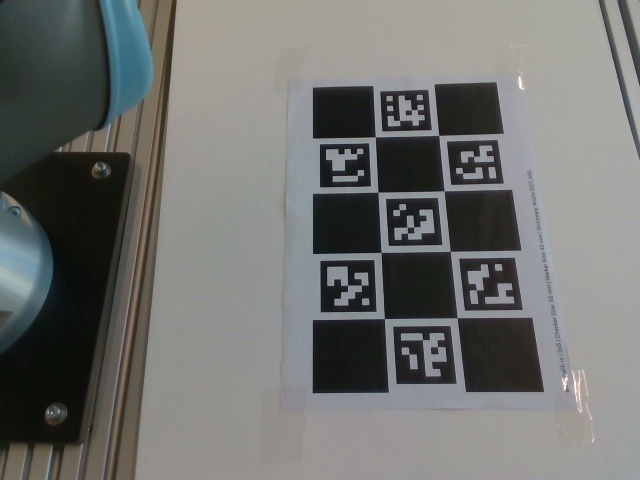
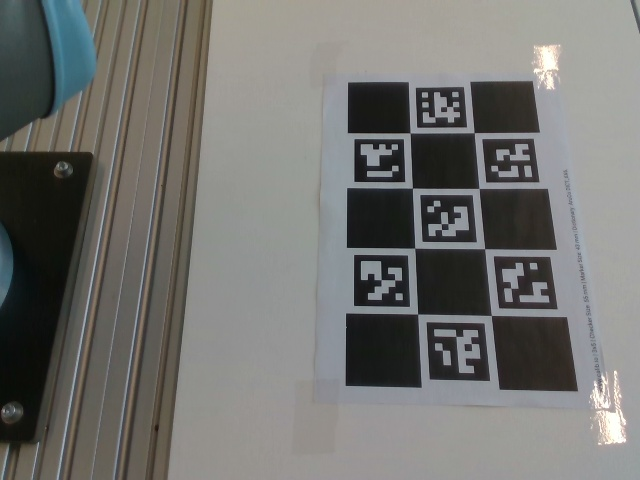
execution of realsense-gripper calib

diff --git a/ur_control/src/ur_control.py b/ur_control/src/ur_control.py
@@ -7,10 +7,10 @@ import time
 
 class urControl:
 
-    base_target_pose = [-0.338, -0.096, 0.025, 0, -3.14, 0] # the home pose, can be changed depending on the current setup
+    base_target_pose = [-0.370, -0.096, 0.025, 0, -3.14, 0] # the home pose, can be changed depending on the current setup
     system_target_poses = []
 
-    def __init__(self, ip, v, a, set_pose):
+    def __init__(self, ip, v, a, set_pose=False):
         # Creating controller and receiver objects 
         self.rtde_c = rtdec.RTDEControlInterface(ip)
         self.rtde_r = rtder.RTDEReceiveInterface(ip)
